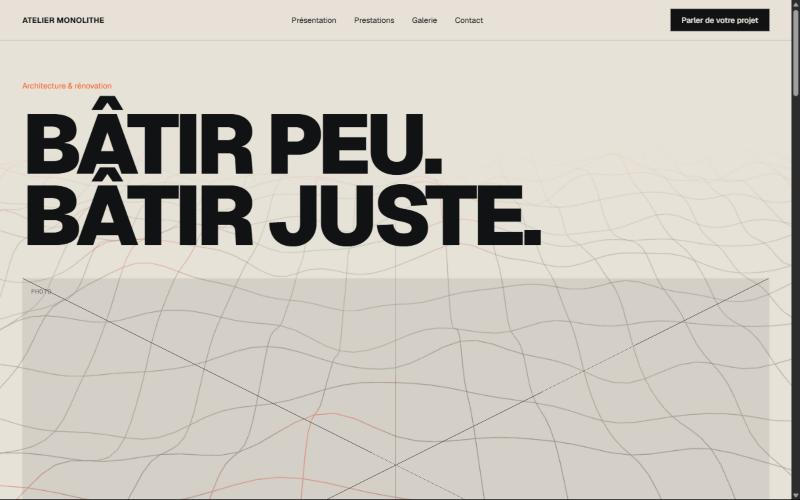
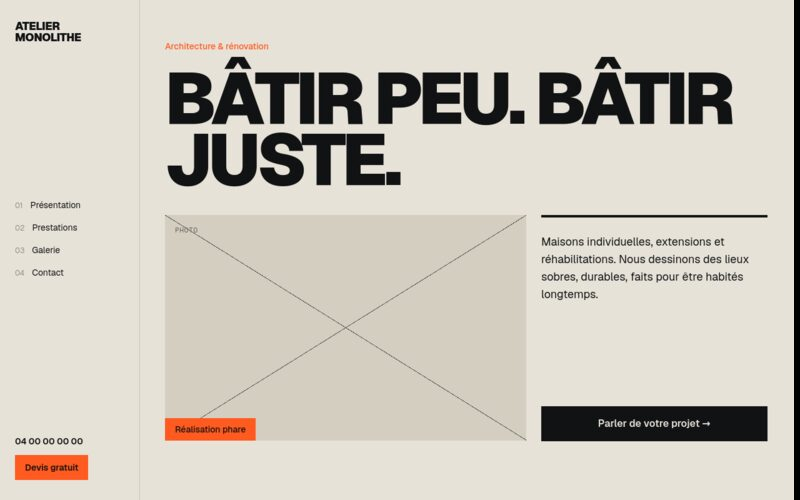
Exemples : un début de page unique pour chacun (menu partagé autour du nom, rail vertical, dock flottant, menu déroulant et mosaïque) ; aperçus refaits

diff --git a/src/components/templates/TemplateSite.tsx b/src/components/templates/TemplateSite.tsx
@@ -139,41 +139,54 @@ function Aurore({ template, content: c, bare }: Props) {
       <Background template={template} />
       <div className="pointer-events-none fixed inset-0 bg-gradient-to-b from-[#140a06]/20 via-[#140a06]/60 to-[#140a06]/90" />
 
-      <header className="fixed inset-x-0 top-0 z-30 flex items-center justify-between bg-gradient-to-b from-[#140a06]/90 to-transparent px-6 py-5 md:px-12">
-        <span className="serif text-2xl italic">{c.brand}</span>
-        <nav aria-label="Navigation" className="hidden gap-8 text-sm md:flex">
-          {nav.map((n) => (
-            <a key={n.href} href={n.href} className="opacity-75 transition-opacity hover:opacity-100">
-              {n.label}
+      <header className="fixed inset-x-0 top-0 z-30 bg-gradient-to-b from-[#140a06]/95 to-transparent px-6 py-5 md:px-12">
+        <div className="grid grid-cols-[1fr_auto_1fr] items-center gap-6">
+          <nav aria-label="Navigation" className="hidden gap-8 text-sm md:flex">
+            {nav.slice(0, 2).map((n) => (
+              <a key={n.href} href={n.href} className="opacity-75 transition-opacity hover:opacity-100">
+                {n.label}
+              </a>
+            ))}
+          </nav>
+          <span className="serif col-start-2 text-center text-3xl italic">{c.brand}</span>
+          <div className="flex items-center justify-end gap-8 text-sm">
+            {nav.slice(2, 3).map((n) => (
+              <a key={n.href} href={n.href} className="hidden opacity-75 transition-opacity hover:opacity-100 md:inline">
+                {n.label}
+              </a>
+            ))}
+            <a href="#contact" className="rounded-full border border-[#ffd27a]/60 px-5 py-2 text-[#ffd27a] transition-colors hover:bg-[#ffd27a] hover:text-[#140a06]">
+              Réserver
             </a>
-          ))}
-        </nav>
-        <a href="#contact" className="rounded-full border border-[#ffd27a]/60 px-5 py-2 text-sm text-[#ffd27a] transition-colors hover:bg-[#ffd27a] hover:text-[#140a06]">
-          {c.cta}
-        </a>
+          </div>
+        </div>
       </header>
 
       <main className="relative z-10">
-        <section className="mx-auto grid min-h-dvh max-w-7xl items-center gap-12 px-6 pb-16 pt-28 md:grid-cols-[1.15fr_1fr] md:px-12">
-          <div>
-            <p className="rise text-sm tracking-wide text-[#ffd27a]">{c.kicker}</p>
-            <h1 className="serif rise rise-1 mt-6 text-[clamp(3rem,7.4vw,7.5rem)] italic">{c.heroTitle}</h1>
-            <p className="rise rise-2 mt-8 max-w-md text-lg text-[#fff1dc]/75">{c.heroSubtitle}</p>
-            <div className="rise rise-3 mt-10 flex flex-wrap items-center gap-6">
-              <a href="#contact" className="rounded-full bg-[#ffd27a] px-7 py-3.5 font-medium text-[#140a06]">
-                {c.cta}
-              </a>
+        <section className="relative mx-auto flex min-h-dvh max-w-6xl flex-col items-center justify-center px-6 pb-16 pt-32 text-center">
+          <div className="absolute left-1/2 top-24 w-[min(28rem,80vw)] -translate-x-1/2 opacity-60">
+            <Photo src={c.photoHero} label={L.photoHero} bare={bare} className="aspect-[3/4] rounded-t-full" />
+          </div>
+          <div className="relative">
+            <p className="rise text-sm uppercase tracking-[0.25em] text-[#ffd27a]">{c.kicker}</p>
+            <h1 className="serif rise rise-1 mx-auto mt-6 max-w-5xl text-[clamp(3rem,8vw,8rem)] italic leading-[0.95] drop-shadow-[0_4px_30px_rgba(20,10,6,0.8)]">
+              {c.heroTitle}
+            </h1>
+            <p className="rise rise-2 mx-auto mt-8 max-w-xl text-lg text-[#fff1dc]/85">{c.heroSubtitle}</p>
+            <a href="#contact" className="rise rise-3 mt-10 inline-block rounded-full bg-[#ffd27a] px-8 py-4 font-medium text-[#140a06]">
+              {c.cta}
+            </a>
+          </div>
+          {(c.hours || c.phone) && (
+            <div className="rise rise-3 relative mt-16 flex flex-col gap-2 border-y border-[#ffd27a]/30 py-4 text-sm text-[#fff1dc]/80 md:flex-row md:gap-10">
+              {c.hours && <span>{c.hours}</span>}
               {c.phone && (
-                <a href={tel(c.phone)} className="underline underline-offset-4">
+                <a href={tel(c.phone)} className="text-[#ffd27a]">
                   {c.phone}
                 </a>
               )}
             </div>
-          </div>
-          <div className="relative mx-auto w-full max-w-md">
-            <div className="absolute -inset-3 rounded-t-full border border-[#ffd27a]/40" aria-hidden="true" />
-            <Photo src={c.photoHero} label={L.photoHero} bare={bare} className="aspect-[3/4] rounded-t-full" />
-          </div>
+          )}
         </section>
 
         <section id="presentation" className="mx-auto grid max-w-7xl scroll-mt-24 items-center gap-14 px-6 py-32 md:grid-cols-2 md:px-12">
@@ -249,37 +262,43 @@ function Monolithe({ template, content: c, bare }: Props) {
     <div className="relative overflow-x-clip bg-[#e7e2d8] text-[#111214] [--photo-bg:#d4cec1]">
       <Background template={template} />
 
-      <header className="fixed inset-x-0 top-0 z-30 flex items-center justify-between border-b border-[#111214]/15 bg-[#e7e2d8]/90 px-6 py-4 text-sm backdrop-blur-md md:px-10">
-        <span className="font-bold uppercase tracking-wide">{c.brand}</span>
-        <nav aria-label="Navigation" className="hidden gap-8 md:flex">
-          {nav.map((n) => (
-            <a key={n.href} href={n.href} className="hover:text-[#ff5a1f]">
+      <header className="fixed inset-x-0 top-0 z-30 flex items-center justify-between border-b border-[#111214]/15 bg-[#e7e2d8]/95 px-6 py-4 text-sm md:inset-y-0 md:left-0 md:right-auto md:w-56 md:flex-col md:items-start md:justify-between md:border-b-0 md:border-r md:py-8">
+        <span className="text-lg font-black uppercase leading-none tracking-tight">{c.brand}</span>
+        <nav aria-label="Navigation" className="hidden flex-col gap-4 md:flex">
+          {nav.map((n, i) => (
+            <a key={n.href} href={n.href} className="group flex items-baseline gap-3 hover:text-[#ff5a1f]">
+              <span className="text-xs text-[#111214]/40 group-hover:text-[#ff5a1f]">0{i + 1}</span>
               {n.label}
             </a>
           ))}
         </nav>
-        <a href="#contact" className="bg-[#111214] px-5 py-2.5 font-medium text-[#e7e2d8] transition-colors hover:bg-[#ff5a1f]">
-          {c.cta}
-        </a>
+        <div className="flex items-center gap-3 md:flex-col md:items-start">
+          {c.phone && (
+            <a href={tel(c.phone)} className="hidden font-semibold md:block">
+              {c.phone}
+            </a>
+          )}
+          <a href="#contact" className="bg-[#ff5a1f] px-4 py-2.5 font-semibold text-[#111214]">
+            Devis gratuit
+          </a>
+        </div>
       </header>
 
-      <main className="relative z-10">
-        <section className="px-6 pb-16 pt-36 md:px-10">
-          <p className="rise text-sm text-[#ff5a1f]">{c.kicker}</p>
-          <h1 className="rise rise-1 mt-8 max-w-6xl text-[clamp(3rem,10.5vw,10.5rem)] font-black uppercase leading-[0.85] tracking-tighter">
-            {c.heroTitle}
-          </h1>
-          <div className="relative mt-12">
-            <Photo src={c.photoHero} label={L.photoHero} bare={bare} className="aspect-[16/8] w-full" />
-            <span className="absolute bottom-0 left-0 bg-[#ff5a1f] px-4 py-2 text-sm font-medium text-[#111214]">{L.photoHero}</span>
-          </div>
-          <div className="rise rise-2 mt-8 flex flex-col gap-6 md:flex-row md:items-start md:justify-between">
-            <p className="max-w-xl text-lg">{c.heroSubtitle}</p>
-            {c.phone && (
-              <a href={tel(c.phone)} className="text-lg font-semibold underline underline-offset-4">
-                {c.phone}
+      <main className="relative z-10 md:ml-56">
+        <section className="px-6 pb-16 pt-28 md:px-10 md:pt-16">
+          <p className="rise text-sm font-medium text-[#ff5a1f]">{c.kicker}</p>
+          <h1 className="rise rise-1 mt-6 text-[clamp(3rem,9vw,9.5rem)] font-black uppercase leading-[0.85] tracking-tighter">{c.heroTitle}</h1>
+          <div className="mt-10 grid gap-6 md:grid-cols-[1.6fr_1fr]">
+            <div className="relative">
+              <Photo src={c.photoHero} label={L.photoHero} bare={bare} className="aspect-[16/10] w-full" />
+              <span className="absolute bottom-0 left-0 bg-[#ff5a1f] px-4 py-2 text-sm font-medium text-[#111214]">{L.photoHero}</span>
+            </div>
+            <div className="rise rise-2 flex flex-col justify-between gap-8 border-t-4 border-[#111214] pt-6">
+              <p className="text-lg">{c.heroSubtitle}</p>
+              <a href="#contact" className="bg-[#111214] px-6 py-4 text-center font-semibold text-[#e7e2d8] transition-colors hover:bg-[#ff5a1f] hover:text-[#111214]">
+                {c.cta} →
               </a>
-            )}
+            </div>
           </div>
         </section>
 
@@ -370,34 +389,44 @@ function Pulse({ template, content: c, bare }: Props) {
     <div className="relative overflow-x-clip bg-[#07060d] text-[#f4f4f4] [--photo-bg:#14131f]">
       <Background template={template} />
 
-      <header className="fixed inset-x-0 top-0 z-30 flex items-center justify-between bg-gradient-to-b from-[#07060d] to-transparent px-6 py-5 md:px-10">
+      <div className="absolute inset-x-0 top-0 z-30 flex items-center justify-between px-6 py-5 md:px-10">
         <span className="text-xl font-black italic tracking-tighter">{c.brand}</span>
-        <nav aria-label="Navigation" className="hidden gap-8 text-sm font-medium md:flex">
+        {c.phone && (
+          <a href={tel(c.phone)} className="text-sm font-bold text-[#c8ff4d]">
+            {c.phone}
+          </a>
+        )}
+      </div>
+      <header className="fixed bottom-5 left-1/2 z-30 hidden -translate-x-1/2 md:block">
+        <nav aria-label="Navigation" className="flex items-center gap-1 rounded-xl border border-white/15 bg-[#07060d]/90 p-1.5 text-sm font-medium backdrop-blur">
           {nav.map((n) => (
-            <a key={n.href} href={n.href} className="hover:text-[#c8ff4d]">
+            <a key={n.href} href={n.href} className="rounded-lg px-4 py-2 hover:bg-white/10">
               {n.label}
             </a>
           ))}
+          <a href="#contact" className="rounded-lg bg-[#c8ff4d] px-4 py-2 font-bold text-[#07060d]">
+            {c.cta}
+          </a>
         </nav>
-        <a href="#contact" className="rounded-md bg-[#c8ff4d] px-5 py-2.5 text-sm font-bold text-[#07060d]">
-          {c.cta}
-        </a>
       </header>
 
       <main className="relative z-10">
-        <section className="mx-auto grid min-h-dvh max-w-7xl items-center gap-10 px-6 pb-16 pt-28 md:grid-cols-[1.3fr_1fr] md:px-10">
-          <div>
-            <p className="rise text-sm font-medium text-[#c8ff4d]">{c.kicker}</p>
-            <h1 className="rise rise-1 mt-4 text-[clamp(3.2rem,9.5vw,9.5rem)] font-black uppercase italic leading-[0.82] tracking-tighter">
-              {c.heroTitle}
-            </h1>
-            <p className="rise rise-2 mt-8 max-w-md text-lg text-white/70">{c.heroSubtitle}</p>
-            <a href="#contact" className="rise rise-3 mt-10 inline-block rounded-md bg-[#c8ff4d] px-8 py-4 font-bold text-[#07060d]">
+        <section className="relative flex min-h-dvh flex-col justify-center px-6 pb-24 pt-28 md:px-10">
+          <div className="pointer-events-none absolute right-6 top-1/2 hidden w-72 -translate-y-1/2 rotate-3 md:block lg:right-16 lg:w-80">
+            <div className="absolute -inset-2 rounded-xl border-2 border-[#c8ff4d]" aria-hidden="true" />
+            <Photo src={c.photoHero} label={L.photoHero} bare={bare} className="aspect-[4/5] rounded-lg" />
+          </div>
+          <p className="rise relative text-sm font-medium uppercase tracking-widest text-[#c8ff4d]">{c.kicker}</p>
+          <h1 className="rise rise-1 relative mt-4 max-w-[14ch] text-[clamp(3.4rem,11vw,11rem)] font-black uppercase italic leading-[0.8] tracking-tighter">
+            {c.heroTitle}
+          </h1>
+          <div className="rise rise-2 relative mt-10 flex flex-col gap-6 md:flex-row md:items-center">
+            <a href="#contact" className="self-start rounded-md bg-[#c8ff4d] px-8 py-4 font-bold text-[#07060d]">
               {c.cta} →
             </a>
+            <p className="max-w-md text-white/70">{c.heroSubtitle}</p>
           </div>
-          <div className="relative mx-auto w-full max-w-sm md:rotate-2">
-            <div className="absolute -inset-2 rounded-xl border-2 border-[#c8ff4d]" aria-hidden="true" />
+          <div className="mt-10 md:hidden">
             <Photo src={c.photoHero} label={L.photoHero} bare={bare} className="aspect-[4/5] rounded-lg" />
           </div>
         </section>
@@ -482,32 +511,42 @@ function Atelier({ template, content: c, bare }: Props) {
       <Background template={template} />
       <div className="pointer-events-none fixed inset-0 bg-[#f6f1ec]/55" />
 
-      <header className="fixed inset-x-0 top-0 z-30 flex items-center justify-between border-b border-[#2a2420]/10 bg-[#f6f1ec]/85 px-6 py-4 backdrop-blur-md md:px-12">
-        <span className="serif text-2xl">{c.brand}</span>
-        <nav aria-label="Navigation" className="hidden gap-8 text-sm md:flex">
-          {nav.map((n) => (
-            <a key={n.href} href={n.href} className="opacity-70 transition-opacity hover:opacity-100">
-              {n.label}
-            </a>
-          ))}
-        </nav>
-        <a href="#contact" className="rounded-full bg-[#2a2420] px-5 py-2.5 text-sm text-[#f6f1ec]">
-          {c.cta}
-        </a>
+      <header className="sticky top-0 z-30">
+        {c.hours && <p className="bg-[#2a2420] px-6 py-2 text-center text-xs text-[#f6f1ec]">{c.hours}</p>}
+        <div className="flex items-center justify-between border-b border-[#2a2420]/10 bg-[#f6f1ec]/95 px-6 py-3 backdrop-blur-md md:px-12">
+          <details className="group relative">
+            <summary className="flex cursor-pointer list-none items-center gap-2 rounded-full border border-[#2a2420]/20 px-4 py-2 text-sm">
+              <span aria-hidden="true">☰</span> Menu
+            </summary>
+            <nav aria-label="Navigation" className="absolute left-0 mt-2 flex w-56 flex-col rounded-2xl bg-white p-2 shadow-xl shadow-[#a8627a]/15">
+              {nav.map((n) => (
+                <a key={n.href} href={n.href} className="rounded-xl px-4 py-3 hover:bg-[#f6f1ec]">
+                  {n.label}
+                </a>
+              ))}
+            </nav>
+          </details>
+          <span className="serif text-2xl md:text-3xl">{c.brand}</span>
+          <a href="#contact" className="rounded-full bg-[#2a2420] px-5 py-2.5 text-sm text-[#f6f1ec]">
+            {c.cta}
+          </a>
+        </div>
       </header>
 
       <main className="relative z-10">
-        <section className="mx-auto grid min-h-dvh max-w-7xl items-center gap-12 px-6 pb-16 pt-28 md:grid-cols-[1.2fr_1fr] md:px-12">
-          <div>
+        <section className="mx-auto max-w-7xl px-6 pb-20 pt-12 md:px-12">
+          <div className="grid items-end gap-4 md:grid-cols-[1fr_1.3fr_1fr]">
+            <Photo src={c.photo1} label={L.photo1} bare={bare} className="hidden aspect-square rounded-t-full md:block" />
+            <Photo src={c.photoHero} label={L.photoHero} bare={bare} className="aspect-[5/4] rounded-[2rem]" />
+            <Photo src={c.photo2} label={L.photo2} bare={bare} className="hidden aspect-square rounded-b-full md:block" />
+          </div>
+          <div className="relative mx-auto -mt-16 max-w-3xl rounded-[2rem] bg-[#f6f1ec] px-6 pt-10 text-center md:-mt-24">
             <p className="rise text-sm text-[#a8627a]">{c.kicker}</p>
-            <h1 className="serif rise rise-1 mt-6 text-[clamp(3rem,7vw,7rem)]">{c.heroTitle}</h1>
-            <p className="rise rise-2 mt-8 max-w-md text-lg text-[#2a2420]/70">{c.heroSubtitle}</p>
-            <a href="#contact" className="rise rise-3 mt-10 inline-block rounded-full bg-[#2a2420] px-7 py-3.5 text-[#f6f1ec]">
+            <h1 className="serif rise rise-1 mt-4 text-[clamp(2.8rem,6.5vw,6rem)] leading-[1]">{c.heroTitle}</h1>
+            <p className="rise rise-2 mx-auto mt-6 max-w-lg text-lg text-[#2a2420]/70">{c.heroSubtitle}</p>
+            <a href="#contact" className="rise rise-3 mt-8 inline-block rounded-full bg-[#2a2420] px-7 py-3.5 text-[#f6f1ec]">
               {c.cta}
             </a>
-          </div>
-          <div className="mx-auto w-full max-w-md rounded-[2rem] bg-white p-3 shadow-2xl shadow-[#a8627a]/15 md:rotate-2">
-            <Photo src={c.photoHero} label={L.photoHero} bare={bare} className="aspect-[4/5] rounded-[1.4rem]" />
           </div>
         </section>
 
